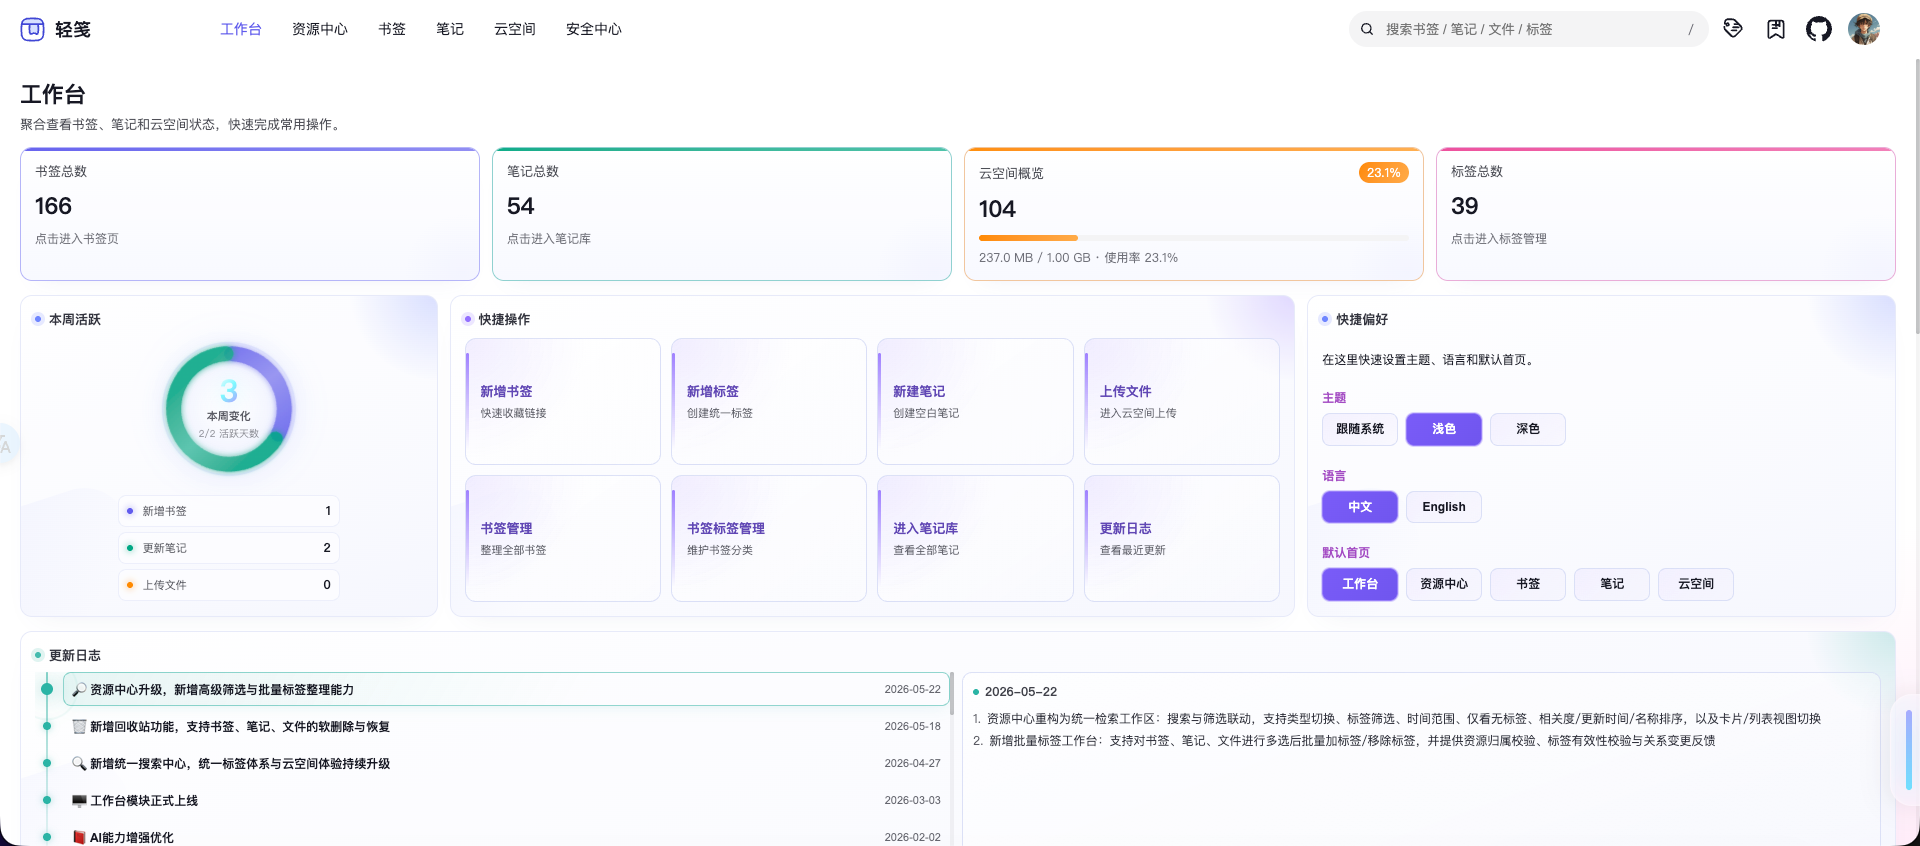
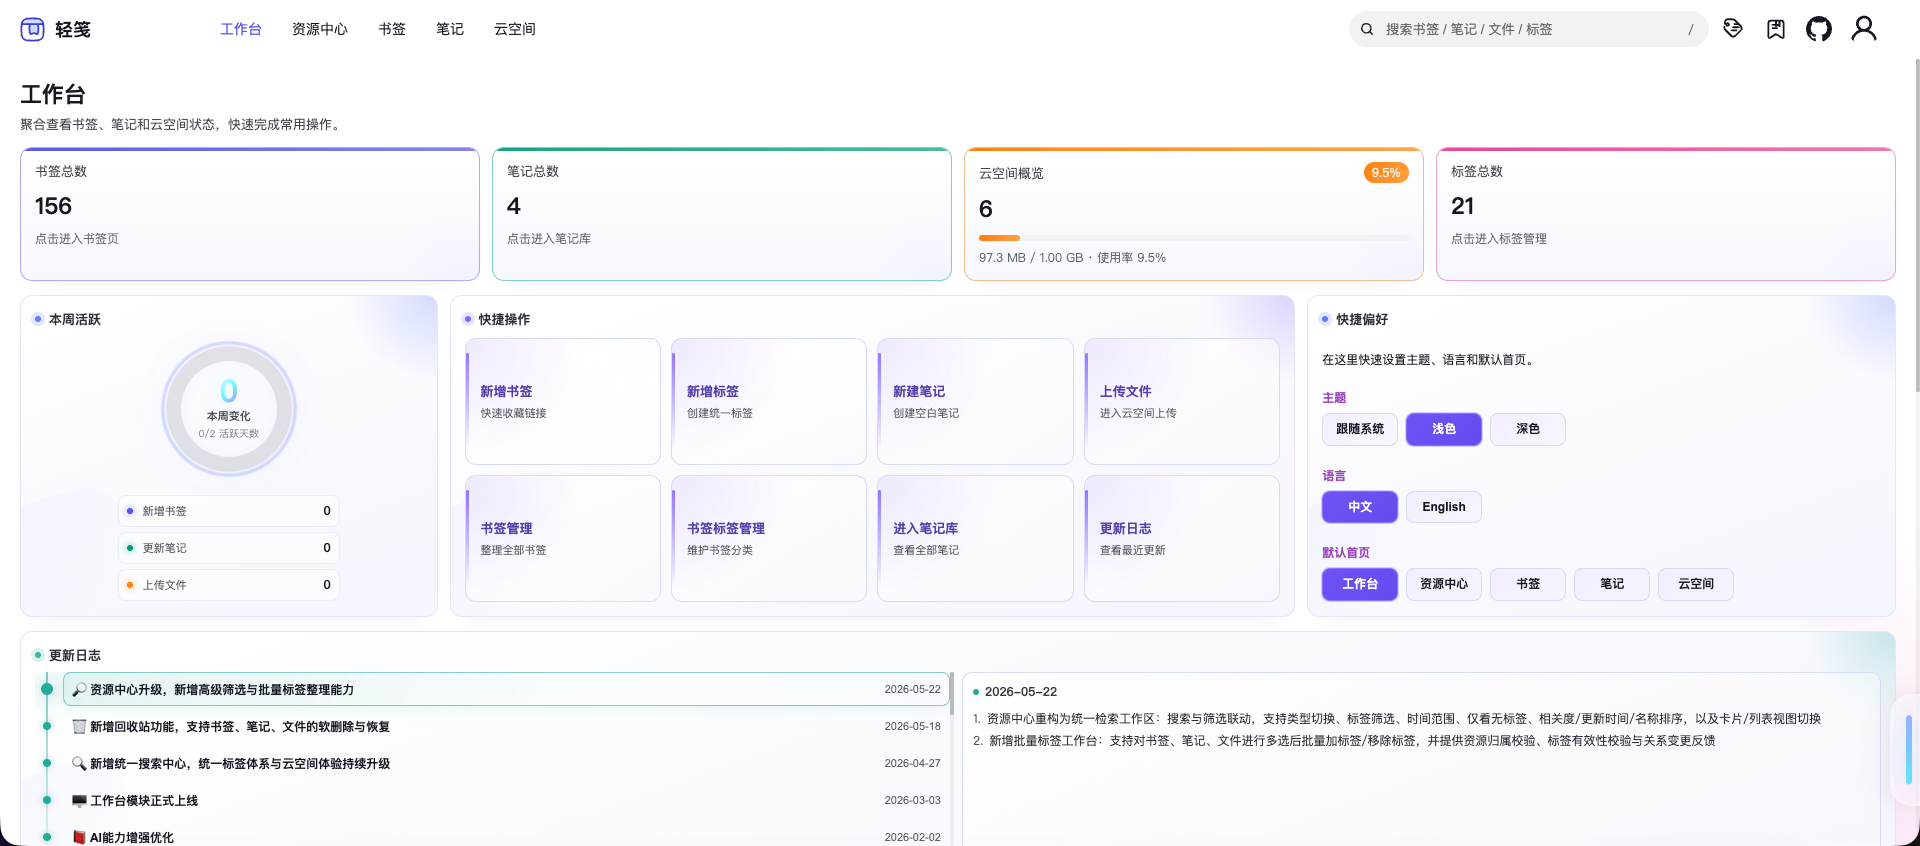
Refactor code structure for improved readability and maintainability

diff --git a/README.md b/README.md
@@ -6,7 +6,7 @@
 
 🌐 **在线体验**：[boluo66.top](https://boluo66.top) · 桌面端 + 移动端全适配
 
-<img src="screenshots/hero.png" alt="轻笺工作台总览" width="85%" />
+<img src="screenshots/hero.png" alt="轻笺工作台总览"  />
 
 ---
 
@@ -20,19 +20,19 @@
 - 标签详情聚合页：一键查看某标签关联的所有书签/笔记/文件
 - 批量标签操作：多选资源统一添加/移除标签
 
-<img src="screenshots/resource1.png" alt="资源中心" width="85%" />
-<img src="screenshots/resource2.png" alt="标签详情" width="85%" />
+<img src="screenshots/resource1.png" alt="资源中心"  />
+<img src="screenshots/resource2.png" alt="标签详情"  />
 
 ### 🏠 书签总览
 
-进入轻笺的第一屏。左侧标签树导航，右侧展示选中标签下的书签卡片，边选边看。
+进入书签模块。左侧标签树导航，右侧展示选中标签下的书签卡片，边选边看。
 
 - 标签树检索、拖拽排序，快速筛选书签
 - 卡片墙展示，支持多标签联合过滤
 - 右键快捷操作：编辑、删除、复制链接
 - 书签智能抓取网页标题、描述与图标
 
-<img src="screenshots/bookmark.png" alt="书签总览" width="85%" />
+<img src="screenshots/bookmark.png" alt="书签总览"  />
 
 ### 📝 笔记库
 
@@ -45,7 +45,7 @@
 - 批量删除、拖拽排序
 - 导出 PDF
 
-<img src="screenshots/note1.png" alt="笔记库卡片视图与列表视图" width="85%" />
+<img src="screenshots/note1.png" alt="笔记库卡片视图与列表视图"  />
 
 ### ☁️ 云空间
 
@@ -58,7 +58,7 @@
 - 外部分享下载（生成分享链接）
 - 严格权限隔离，用户仅可访问自己的资源
 
-<img src="screenshots/cloud-spance.png" alt="云空间" width="85%" />
+<img src="screenshots/cloud-spance.png" alt="云空间"  />
 
 ### 🤖 AI 助手
 
@@ -68,7 +68,7 @@
 - 快捷提问模板
 - 流式响应展示
 
-<img src="screenshots/ai-chat.png" alt="AI 助手对话" width="85%" />
+<img src="screenshots/ai-chat.png" alt="AI 助手对话"  />
 
 ### 🔍 全局搜索
 
@@ -78,7 +78,7 @@
 - 批量标签筛选（SearchBatchTags）
 - 搜索结果聚合展示
 
-<img src="screenshots/search.png" alt="全局搜索" width="85%" />
+<img src="screenshots/search.png" alt="全局搜索"  />
 
 ### 📊 工作台
 
@@ -92,6 +92,8 @@
 ### 🗑️ 回收站
 
 统一管理已删除资源，防止误删丢失。
+
+<img src="screenshots/recycle.png" alt="回收站"  />
 
 ### 🔐 安全中心 & 后台管理
 
@@ -111,9 +113,9 @@
 - **拖拽体系**：书签/标签/笔记/文件全模块拖拽排序
 - **埋点追踪**：操作日志 + 点击行为分析
 
-<div style="display: flex; justify-content: space-between;">
-<img src="screenshots/mobile1.png" alt="移动端首页浅色与暗色主题" width="85%" />
-<img src="screenshots/mobile2.png" alt="移动端首页浅色与暗色主题" width="85%" />
+<div style="display: flex; ">
+<img src="screenshots/mobile1.png" alt="移动端首页浅色与暗色主题"  />
+<img src="screenshots/mobile2.png" alt="移动端首页浅色与暗色主题"  />
 </div>
 
 ---